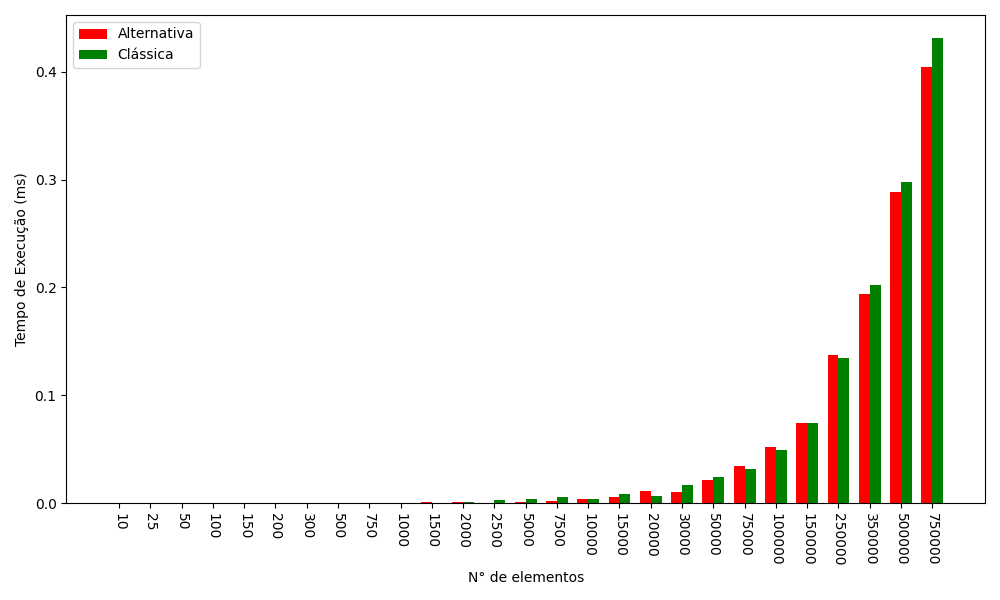
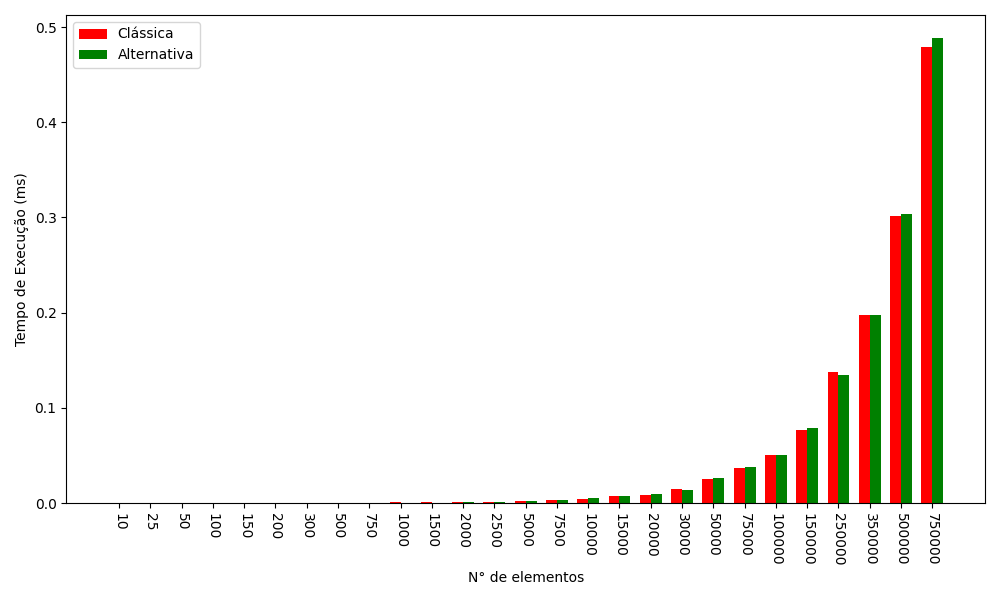
calc

diff --git a/data_analysis.py b/data_analysis.py
@@ -18,10 +18,10 @@ def plot_times(avg_data): # grafico de linha para comparar linha e tamanho
 
     plt.figure(figsize=(10, 6))
     
-    plt.plot(avg_data['num_classes'], avg_data['unbalanced_time'], marker='o', label='Alternativa', color='red')
+    plt.plot(avg_data['num_classes'], avg_data['unbalanced_time'], marker='o', label='Clássica', color='red')
     # add_labels_line(avg_data['num_classes'], avg_data['unbalanced_time'], 'black')
     
-    plt.plot(avg_data['num_classes'], avg_data['balanced_time'], marker='o', label='Clássica', color='green')
+    plt.plot(avg_data['num_classes'], avg_data['balanced_time'], marker='o', label='Alternativa', color='green')
     # add_labels_line(avg_data['num_classes'], avg_data['balanced_time'], 'black')
     
     plt.xlabel('N° de elementos')
@@ -31,7 +31,28 @@ def plot_times(avg_data): # grafico de linha para comparar linha e tamanho
     plt.savefig('tempo.png')
     plt.show()
 
+def plot_times_10000(avg_data):
+    import matplotlib.pyplot as plt
+    
+    # Filtrar até num_classes = 10000
+    filtered_data = avg_data[avg_data['num_classes'] <= 2500]
+    
+    plt.figure(figsize=(10, 6))
+    
+    # Plotar os tempos da linha Clássica e Alternativa
+    plt.plot(filtered_data['num_classes'], filtered_data['unbalanced_time'], marker='o', label='Clássica', color='red')
+    plt.plot(filtered_data['num_classes'], filtered_data['balanced_time'], marker='o', label='Alternativa', color='green')
+    
+    plt.xlabel('N° de elementos')
+    plt.ylabel('Tempo de Execução (ms)')
+    plt.legend()
+    
+    # Salvar e exibir o gráfico
+    plt.savefig('tempo2500.png')
+    plt.show()
+
 def add_labels(bars): 
+    
     for bar in bars:
         height = bar.get_height()
         plt.text(
@@ -46,8 +67,8 @@ def plot_absolute_values(avg_data): # barras para tempo e variância
     bar_width = 0.35
     x = np.arange(len(avg_data['num_classes']))
     
-    bars1 = plt.bar(x - bar_width/2, avg_data['unbalanced_time'], bar_width, label='Alternativa', color='red')
-    bars2 = plt.bar(x + bar_width/2, avg_data['balanced_time'], bar_width, label='Clássica', color='green')
+    bars1 = plt.bar(x - bar_width/2, avg_data['unbalanced_time'], bar_width, label='Clássica', color='red')
+    bars2 = plt.bar(x + bar_width/2, avg_data['balanced_time'], bar_width, label='Alternativa', color='green')
     
     # add_labels(bars1)
     # add_labels(bars2)
@@ -62,9 +83,31 @@ def plot_absolute_values(avg_data): # barras para tempo e variância
     plt.savefig('tempo-elementos.png')
     plt.show()
 
+
+    filtered_data = avg_data[avg_data['num_classes'] <= 2500]
+    x_filtered = np.arange(len(filtered_data['num_classes']))
+
     plt.figure(figsize=(10, 6))
-    bars3 = plt.bar(x - bar_width/2, avg_data['unbalanced_var'], bar_width, label='Alternativa', color='red')
-    bars4 = plt.bar(x + bar_width/2, avg_data['balanced_var'], bar_width, label='Clássica', color='green')
+
+    bars5 = plt.bar(x_filtered - bar_width/2, filtered_data['unbalanced_var'], bar_width, label='Clássica', color='red')
+    bars6 = plt.bar(x_filtered + bar_width/2, filtered_data['balanced_var'], bar_width, label='Alternativa', color='green')
+    
+    # add_labels(bars3)
+    # add_labels(bars4)
+
+    plt.xlabel('N° de elementos')
+    plt.ylabel('Variância')
+    # plt.title('Variância: Alternativa vs. Clássica')
+    plt.xticks(x_filtered, filtered_data['num_classes'], rotation=-90)
+    plt.legend()
+    plt.grid(False)
+    plt.tight_layout()
+    plt.savefig('variancia-elementos2500.png')
+    plt.show()
+
+    plt.figure(figsize=(10, 6))
+    bars3 = plt.bar(x - bar_width/2, avg_data['unbalanced_var'], bar_width, label='Clássica', color='red')
+    bars4 = plt.bar(x + bar_width/2, avg_data['balanced_var'], bar_width, label='Alternativa', color='green')
     
     # add_labels(bars3)
     # add_labels(bars4)
@@ -84,5 +127,6 @@ file_path = './results.csv'
 avg_data = process_data(file_path)
 
 plot_times(avg_data)
+plot_times_10000(avg_data)
 plot_absolute_values(avg_data)
 
